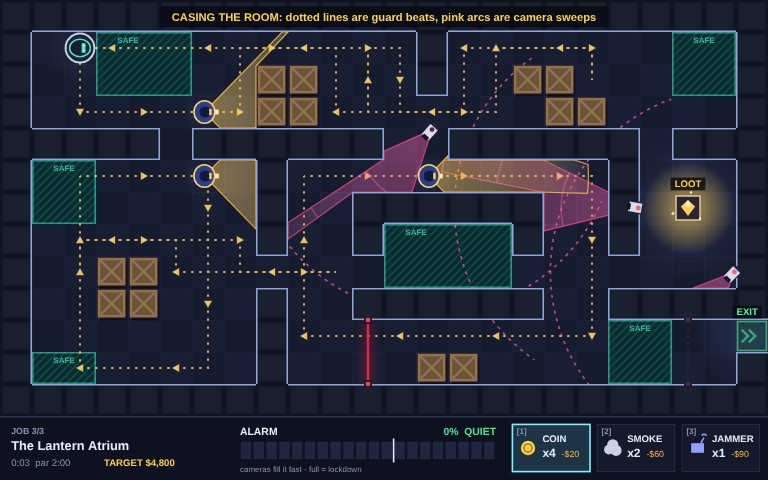
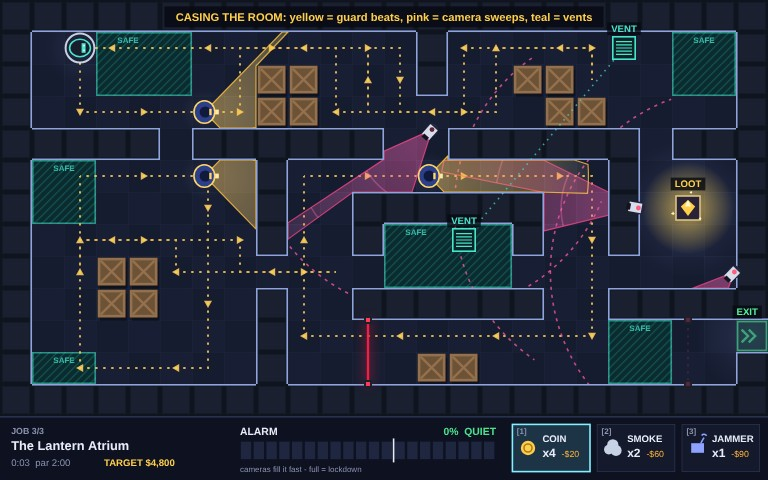
Vents: paired grates you crawl between unseen, a second way into each room
Claude-Session: https://claude.ai/code/session_013aFgNwi7EeKAMMksrJE1qB

Changed region(s): [[0.2188, 0.0, 0.8438, 0.125], [0.5625, 0.4375, 0.625, 0.5312]]

diff --git a/game/src/heist/heist-session.js b/game/src/heist/heist-session.js
@@ -12,6 +12,7 @@ import { createNoiseField, updateNoise, settleNoise } from '../stealth/noise.js'
 import { createKit, createSmokeField, updateSmoke, useTool, TOOL_ORDER } from '../gear/tools.js';
 import { ALARM, TILE } from '../config.js';
 import { createLaser, updateLasers } from '../stealth/laser-grid.js';
+import { createVents, ventUnder, startCrawl, updateCrawl } from '../world/vents.js';
 
 export function createHeist(stageIndex) {
   const stage = STAGES[stageIndex];
@@ -24,6 +25,7 @@ export function createHeist(stageIndex) {
     guards: stage.guards.map(createGuard),
     cameras: stage.cameras.map(createCamera),
     lasers: (stage.lasers ?? []).map(createLaser),
+    vents: createVents(stage.vents),
     alarm: createAlarm(),
     noise: createNoiseField(),
     clouds: createSmokeField(),
@@ -52,9 +54,18 @@ export function stepHeist(h, input, dt) {
   h.time += dt;
   beginAlarmFrame(h.alarm);
 
-  updateThief(h.thief, ctx);
-  selectTool(h, input);
-  if (input.mouse.clicked && input.mouse.y < 520) useTool(h.kit, ctx, input.mouse.x, input.mouse.y);
+  if (h.thief.crawl) {
+    if (updateCrawl(h.thief, dt)) events.push({ type: 'ventOut' });
+  } else {
+    updateThief(h.thief, ctx);
+    selectTool(h, input);
+    const vent = h.thief.active ? ventUnder(h.vents, h.thief.x, h.thief.y) : null;
+    h.thief.onVent = Boolean(vent) && !h.thief.nearLoot;
+    if (h.thief.onVent && input.pressed('use')) {
+      startCrawl(h.thief, vent);
+      events.push({ type: 'ventIn' });
+    } else if (input.mouse.clicked && input.mouse.y < 520) useTool(h.kit, ctx, input.mouse.x, input.mouse.y);
+  }
   h.clouds = updateSmoke(h.clouds, dt);
   ctx.clouds = h.clouds;
 

diff --git a/game/src/render/draw-scene.js b/game/src/render/draw-scene.js
@@ -1,12 +1,12 @@
 // Draws one frame of a heist in play, layer by layer: floor, night darkness, safe shadows,
 // patrol beats, cones, walls, loot and exit, the people, then effects and the HUD.
 
-import { drawFloor, drawShadows, drawShadowTags, drawWalls, drawLoot, drawExit } from './draw-room.js';
+import { drawFloor, drawShadows, drawShadowTags, drawWalls, drawLoot, drawExit, drawVents } from './draw-room.js';
 import { coneShapes, drawCones, drawCameraLocks } from './draw-cones.js';
 import { drawDarkness } from './lighting.js';
 import { drawPatrols, drawCasingLabel } from './draw-patrols.js';
 import { drawLasers } from './draw-lasers.js';
-import { drawThief, drawGuards, drawCameras, drawSmoke, drawNoise, drawReticle } from './draw-actors.js';
+import { drawThief, drawGuards, drawCameras, drawSmoke, drawNoise, drawReticle, drawCrawl } from './draw-actors.js';
 import { drawHud, drawBanner, drawAlarmVignette, drawHint } from './draw-hud.js';
 
 export function drawRoom(ctx, h, time, casing = false) {
@@ -19,6 +19,7 @@ export function drawRoom(ctx, h, time, casing = false) {
   drawWalls(ctx, h.map);
   drawShadowTags(ctx, h.map);
   drawLasers(ctx, h.lasers, time);
+  drawVents(ctx, h.vents, casing);
   drawExit(ctx, h.map, h.thief, time);
   drawLoot(ctx, h.map, h.thief, time);
   drawNoise(ctx, h.noise);
@@ -26,6 +27,7 @@ export function drawRoom(ctx, h, time, casing = false) {
   drawCameras(ctx, h, time);
   drawGuards(ctx, h);
   if (h.thief.active) drawThief(ctx, h.thief, time);
+  drawCrawl(ctx, h.thief, time);
   drawSmoke(ctx, h.clouds, time);
 }
 

diff --git a/game/src/world/vents.js b/game/src/world/vents.js
@@ -1,0 +1,40 @@
+// Air vents: paired grates that make another route through a room. Press E on a grate to crawl
+// to its twin; while crawling the thief is out of sight of every cone and camera.
+
+import { TILE } from '../config.js';
+
+export const CRAWL_TIME = 1.4;
+
+export function createVents(defs) {
+  return (defs ?? []).map(([ax, ay, bx, by], id) => ({
+    id,
+    a: { x: (ax + 0.5) * TILE, y: (ay + 0.5) * TILE },
+    b: { x: (bx + 0.5) * TILE, y: (by + 0.5) * TILE },
+  }));
+}
+
+// The grate the thief stands on, with the far end it leads to, or null.
+export function ventUnder(vents, x, y) {
+  for (const v of vents) {
+    if (Math.hypot(v.a.x - x, v.a.y - y) < 18) return { vent: v, from: v.a, to: v.b };
+    if (Math.hypot(v.b.x - x, v.b.y - y) < 18) return { vent: v, from: v.b, to: v.a };
+  }
+  return null;
+}
+
+export function startCrawl(thief, entry) {
+  thief.crawl = { from: entry.from, to: entry.to, t: 0 };
+  thief.active = false;
+}
+
+// Advances a crawl; returns true on the frame the thief climbs out.
+export function updateCrawl(thief, dt) {
+  if (!thief.crawl) return false;
+  thief.crawl.t += dt;
+  if (thief.crawl.t < CRAWL_TIME) return false;
+  thief.x = thief.crawl.to.x;
+  thief.y = thief.crawl.to.y;
+  thief.crawl = null;
+  thief.active = true;
+  return true;
+}

diff --git a/game/src/render/draw-room.js b/game/src/render/draw-room.js
@@ -213,3 +213,33 @@ export function label(ctx, text, x, y, color) {
   ctx.fillStyle = color;
   ctx.fillText(text, x, y + 1);
 }
+
+// Vent grates: teal slatted squares, a safe way through. While casing the room, a dotted line
+// shows which grates are joined.
+export function drawVents(ctx, vents, casing) {
+  for (const v of vents) {
+    if (casing) {
+      ctx.strokeStyle = 'rgba(70,230,205,0.7)';
+      ctx.lineWidth = 2;
+      ctx.setLineDash([2, 6]);
+      ctx.beginPath();
+      ctx.moveTo(v.a.x, v.a.y);
+      ctx.lineTo(v.b.x, v.b.y);
+      ctx.stroke();
+      ctx.setLineDash([]);
+    }
+    for (const end of [v.a, v.b]) {
+      ctx.fillStyle = '#0d2326';
+      ctx.fillRect(end.x - 14, end.y - 14, 28, 28);
+      ctx.strokeStyle = COLORS.safe;
+      ctx.lineWidth = 2;
+      ctx.strokeRect(end.x - 14, end.y - 14, 28, 28);
+      ctx.beginPath();
+      for (let k = -8; k <= 8; k += 4) { ctx.moveTo(end.x - 10, end.y + k); ctx.lineTo(end.x + 10, end.y + k); }
+      ctx.lineWidth = 1.5;
+      ctx.stroke();
+    }
+    label(ctx, 'VENT', v.a.x, v.a.y - 24, COLORS.safe);
+    label(ctx, 'VENT', v.b.x, v.b.y - 24, COLORS.safe);
+  }
+}

diff --git a/game/src/levels/stages.js b/game/src/levels/stages.js
@@ -4,7 +4,8 @@
 //   P  thief start   $  the loot target         X  the getaway hatch
 // Guards walk their `route` (tile coordinates) in a loop; cameras sweep `sweep` radians either
 // side of `angle` at `speed` radians a second; lasers run between two wall points, live for
-// `on` seconds then dark for `off`. Each stage has two or more routes to the loot.
+// `on` seconds then dark for `off`; vents join two floor tiles [ax, ay, bx, by] by a crawlway.
+// Each stage has two or more routes to the loot.
 
 export const STAGES = [
   {
@@ -35,6 +36,7 @@ export const STAGES = [
     cameras: [
       { x: 15.5, y: 9.05, angle: Math.PI / 2, sweep: 0.85, speed: 0.7 },
     ],
+    vents: [[5, 11, 20, 5]],
   },
   {
     id: 'bonded',
@@ -69,6 +71,7 @@ export const STAGES = [
     lasers: [
       { from: [21, 8.5], to: [23, 8.5], on: 2.4, off: 1.8 },
     ],
+    vents: [[1, 5, 21, 5]],
   },
   {
     id: 'atrium',
@@ -106,5 +109,6 @@ export const STAGES = [
       { from: [21.5, 10], to: [21.5, 12], on: 2.0, off: 1.6 },
       { from: [11.5, 10], to: [11.5, 12], on: 1.8, off: 2.2, phase: 1.0 },
     ],
+    vents: [[19, 1, 14, 7]],
   },
 ];

diff --git a/game/src/audio/sfx.js b/game/src/audio/sfx.js
@@ -82,6 +82,8 @@ export const sfx = {
   laser: () => { tone(1250, 0.5, { type: 'sawtooth', gain: 0.12, slide: -700 }); tone(1900, 0.15, { type: 'square', gain: 0.06, delay: 0.05 }); },
   heartbeat: (gain) => { tone(58, 0.12, { type: 'sine', gain }); tone(52, 0.14, { type: 'sine', gain: gain * 0.8, delay: 0.16 }); },
   guardStep: (gain) => noiseBurst(0.07, { gain, freq: 180, q: 1.5 }),
+  ventIn: () => { noiseBurst(0.25, { gain: 0.12, freq: 900, q: 3 }); tone(160, 0.2, { type: 'triangle', gain: 0.08 }); },
+  ventOut: () => { noiseBurst(0.2, { gain: 0.1, freq: 1200, q: 3 }); tone(220, 0.15, { type: 'triangle', gain: 0.08 }); },
   select: () => tone(990, 0.05, { type: 'triangle', gain: 0.08 }),
   confirm: () => { tone(660, 0.08, { type: 'triangle', gain: 0.1 }); tone(990, 0.12, { type: 'triangle', gain: 0.1, delay: 0.07 }); },
   siren: (level) => tone(level > 85 ? 900 : 700, 0.2, { type: 'square', gain: 0.035, slide: -200 }),

diff --git a/game/src/render/draw-hud.js b/game/src/render/draw-hud.js
@@ -141,6 +141,8 @@ export function drawAlarmVignette(ctx, alarm, time) {
 // One line of advice at the top of the room, from what is happening right now.
 export function hintFor(h) {
   if (h.thief.nearLoot) return { text: 'Hold E to crack the case', color: COLORS.loot };
+  if (h.thief.crawl) return { text: 'Crawling through the vent: nobody can see you', color: COLORS.safe };
+  if (h.thief.onVent) return { text: 'Press E to crawl through the vent', color: COLORS.safe };
   if (h.thief.carrying && h.time - (h.lootAt ?? h.time) < 6) return { text: 'Loot in the bag: reach the green EXIT', color: COLORS.exit };
   if (h.guards.some((g) => g.state === 'suspicious')) return { text: '? means suspicious: break line of sight before the gauge fills', color: COLORS.warn };
   if (h.guards.some((g) => g.state === 'chase')) return { text: 'Chased! Guards are slower than you: lose them round a corner or in shadow', color: COLORS.danger };

diff --git a/game/src/render/draw-actors.js b/game/src/render/draw-actors.js
@@ -176,3 +176,24 @@ export function drawReticle(ctx, h, mouse) {
   ctx.textAlign = 'left';
   ctx.fillText(check.ok ? `${tool.label} -$${tool.cost}` : check.why, mouse.x + 14, mouse.y - 10);
 }
+
+// A thief inside a vent: a teal pip creeping along the duct between the two grates.
+export function drawCrawl(ctx, thief, time) {
+  const c = thief.crawl;
+  if (!c) return;
+  const k = Math.min(1, c.t / 1.4);
+  ctx.strokeStyle = 'rgba(70,230,205,0.5)';
+  ctx.lineWidth = 2;
+  ctx.setLineDash([2, 6]);
+  ctx.beginPath();
+  ctx.moveTo(c.from.x, c.from.y);
+  ctx.lineTo(c.to.x, c.to.y);
+  ctx.stroke();
+  ctx.setLineDash([]);
+  const x = c.from.x + (c.to.x - c.from.x) * k;
+  const y = c.from.y + (c.to.y - c.from.y) * k;
+  ctx.fillStyle = COLORS.safe;
+  ctx.beginPath();
+  ctx.arc(x, y, 5 + Math.sin(time * 20) * 1.5, 0, Math.PI * 2);
+  ctx.fill();
+}

diff --git a/game/src/render/draw-patrols.js b/game/src/render/draw-patrols.js
@@ -64,7 +64,7 @@ export function drawCasingLabel(ctx) {
   ctx.font = 'bold 14px Verdana, sans-serif';
   ctx.textAlign = 'center';
   ctx.textBaseline = 'middle';
-  const msg = 'CASING THE ROOM: dotted lines are guard beats, pink arcs are camera sweeps';
+  const msg = 'CASING THE ROOM: yellow = guard beats, pink = camera sweeps, teal = vents';
   const w = ctx.measureText(msg).width + 28;
   ctx.fillStyle = 'rgba(8,10,20,0.85)';
   ctx.fillRect(480 - w / 2, 8, w, 26);
